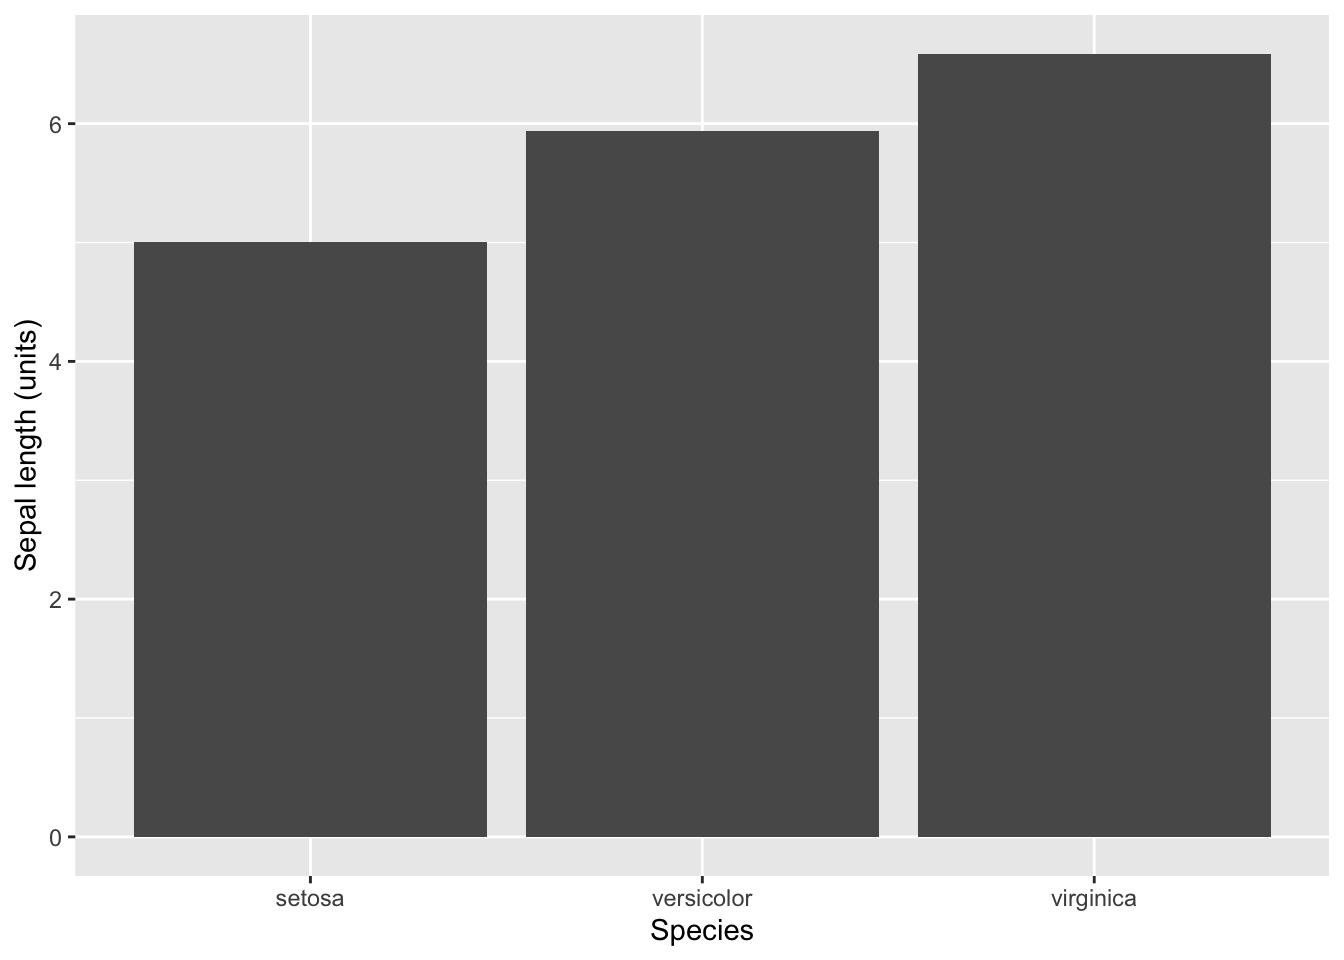
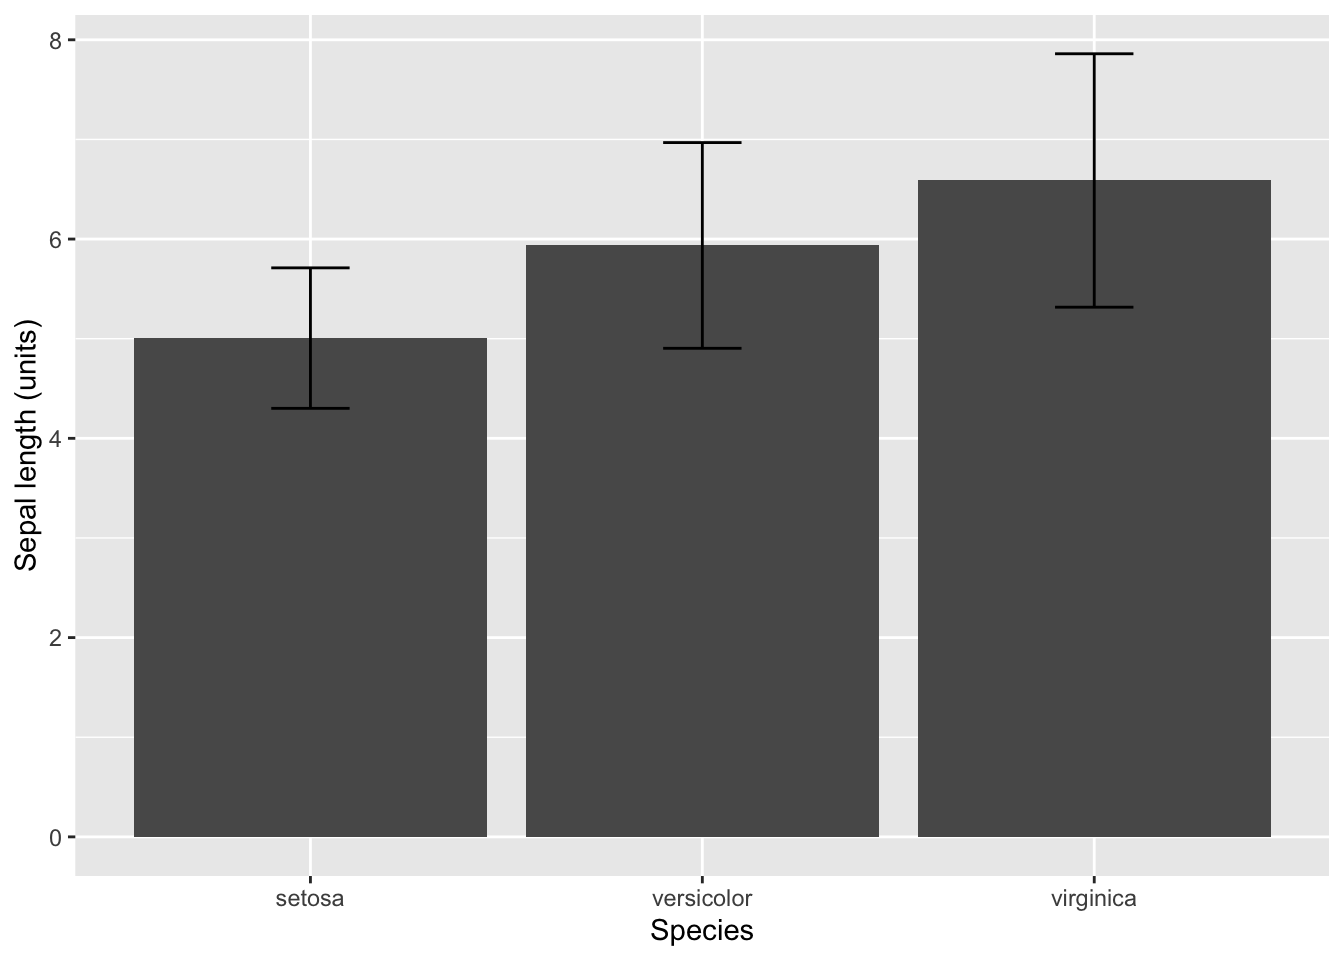
Update ANOVA

diff --git a/inst/doc/anova.html b/inst/doc/anova.html
@@ -706,23 +706,18 @@ others). You only have to switch the function for the argument
 the standard deviation, and use <samp>mean_cl_normal</samp> to calculate
 and plot the 95% confidence interval.</p>
 <pre class="r"><code>#Requires the Hmisc package
+#install.packages(&quot;Hmisc&quot;) #select no
 #Plot standard deviation
 ggplot(iris, aes(x = Species, y = Sepal.Length)) +
   stat_summary(geom = &quot;bar&quot;, fun.y = &quot;mean&quot;) +
   stat_summary(geom = &quot;errorbar&quot;, fun.data = &quot;mean_sdl&quot;, width = 0.2) +
   ylab(&quot;Sepal length (units)&quot;)</code></pre>
-<pre><code>## Warning: Computation failed in `stat_summary()`
-## Caused by error in `fun.data()`:
-## ! The package &quot;Hmisc&quot; is required.</code></pre>
 <p><img src="anova_files/figure-html/unnamed-chunk-16-1.png" width="672" /></p>
 <pre class="r"><code>#Plot 95% confidence intervals
 ggplot(iris, aes(x = Species, y = Sepal.Length)) +
   stat_summary(geom = &quot;bar&quot;, fun.y = &quot;mean&quot;) +
   stat_summary(geom = &quot;errorbar&quot;, fun.data = &quot;mean_cl_normal&quot;, width = 0.2) +
   ylab(&quot;Sepal length (units)&quot;)</code></pre>
-<pre><code>## Warning: Computation failed in `stat_summary()`
-## Caused by error in `fun.data()`:
-## ! The package &quot;Hmisc&quot; is required.</code></pre>
 <p><img src="anova_files/figure-html/unnamed-chunk-16-2.png" width="672" /></p>
 </div>
 <div id="assumptions" class="section level1" number="7">
